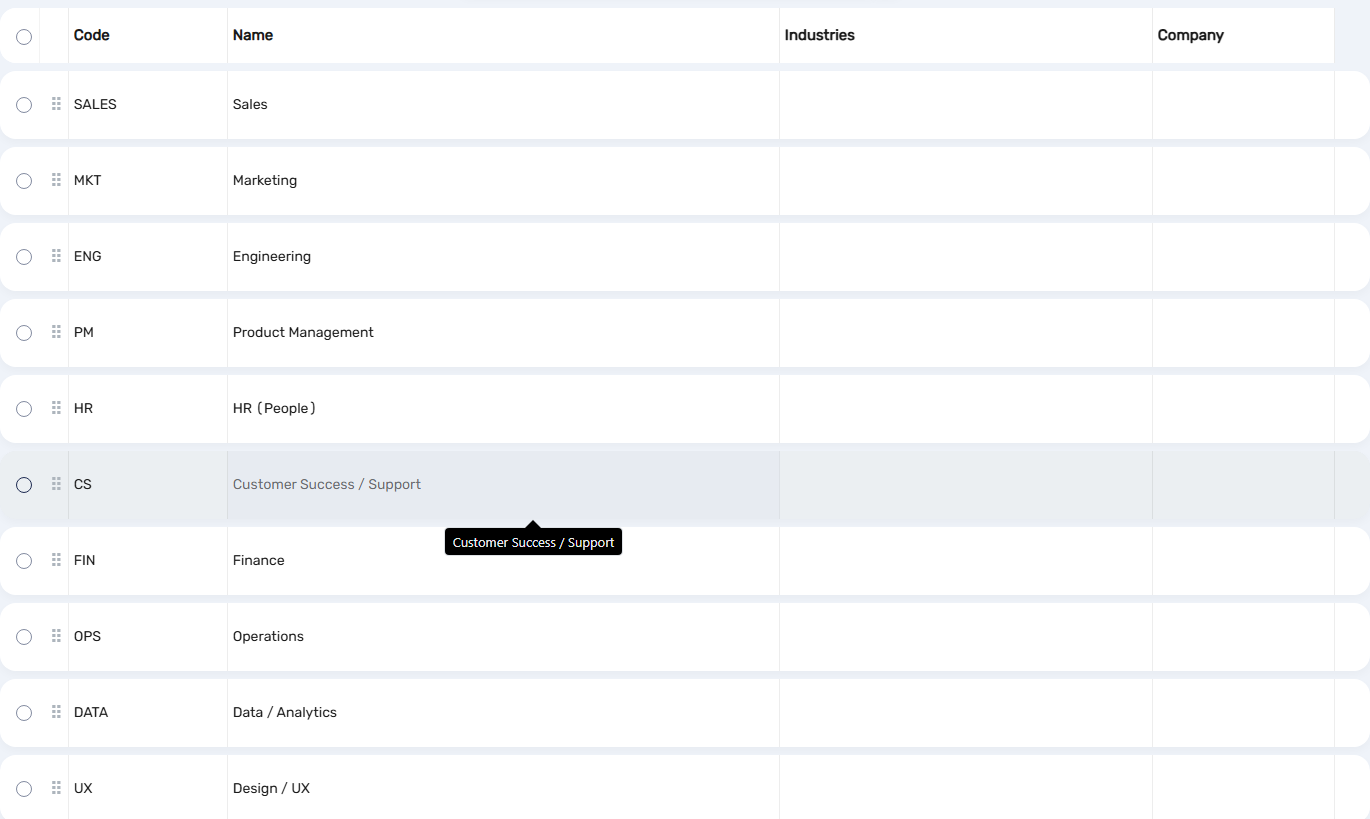
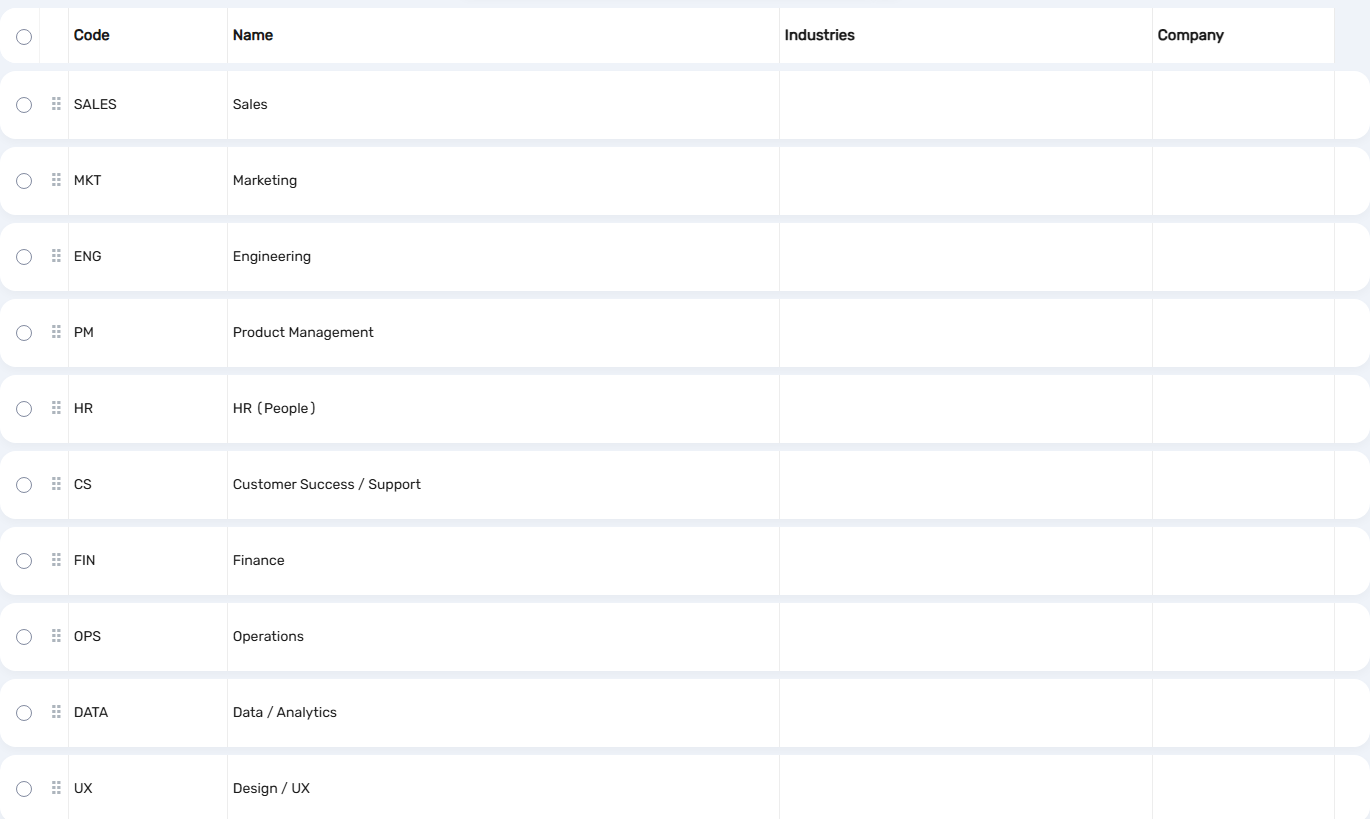
fix: the alignment tree and the cockpit disagreed about which cycles count
The cockpit lists cycles that are open, in review or closed. The
alignment tree listed every cycle including drafts, so it opened on a
cycle that had not started - in the demo data, a quarter holding one
objective and no check-ins - while the cockpit beside it showed the
live year. Two dashboards on the same menu giving different answers to
"which cycle are we looking at" is worse than either being wrong, and a
user has no way to tell which one to believe. The tree now uses the
same filter.

Found by building the store cover: the tree screenshot came out almost
empty, which was the product telling the truth about a bug rather than
a bad screenshot.

The cover now composites three screens instead of one - a dashboard, a
structure and a catalogue - because one screenshot says "a screen" and
three say "a system". The supporting pair is chosen for weight at
thumbnail size: a sparse list reads as a blank rectangle at 272px. The
pointer is parked off-canvas before each shot after a row tooltip was
left hanging across the library list.

Changed region(s): [[0.3066, 0.641, 0.4599, 0.7021], [0.1839, 0.58, 0.3066, 0.6105]]

diff --git a/addons_hrm/aic_okr_kpi/static/src/alignment_tree/alignment_tree.js b/addons_hrm/aic_okr_kpi/static/src/alignment_tree/alignment_tree.js
@@ -24,8 +24,14 @@ export class AicHrmAlignmentTree extends Component {
             loading: true,
         });
         onWillStart(async () => {
+            // Same filter as the cockpit. This read every cycle including
+            // drafts, so the tree opened on a cycle that had not started -
+            // typically empty - while the cockpit next to it showed the
+            // live one. Two dashboards disagreeing about which cycles
+            // count is worse than either being wrong.
             this.state.cycles = await this.orm.searchRead(
-                "aic.hrm.cycle", [],
+                "aic.hrm.cycle",
+                [["state", "in", ["open", "review", "closed"]]],
                 ["id", "name", "code", "state"],
                 { order: "date_start desc" },
             );
